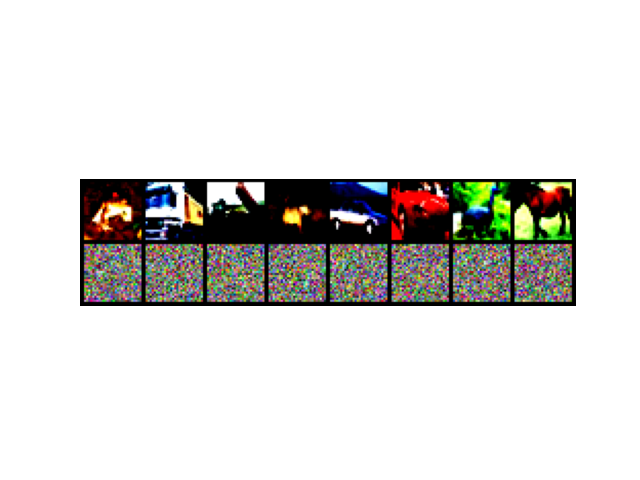
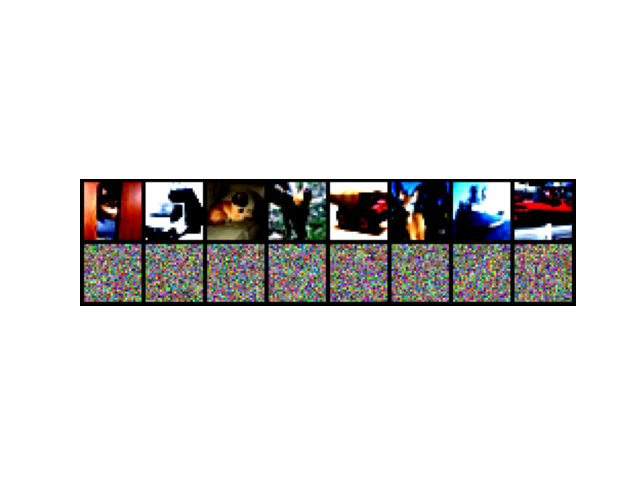
Updates

Changed region(s): [[0.125, 0.375, 0.9062, 0.6562]]

diff --git a/src/cifar10.py b/src/cifar10.py
@@ -234,72 +234,89 @@ def mean_std_channel(loader):
 
 def main():
     # Hyperparams
-    config = dict(
-        batch_size=128, num_workers=0, label_corruption_prob=0.,
-        data_corruption_type="none", test_size=0.2
-    )
+    config = dict(batch_size=128, num_workers=0,
+                  label_corruption_prob=0., seed=42,
+                  data_corruption_type="none", test_size=0.2)
     opts = SimpleNamespace(**config)
 
     # Get Dataset and DataLoader
     data = ModifiedCIFAR10(opts)
+    print(f"Dataset size: X={data.X.shape}, y={data.y.shape}")
+    print(f"Mean: {data.mean}, Std: {data.std}")
     cifar10 = MakeDataLoaders(opts, data)
     train_loader = cifar10.train_loader
 
     # Verify data
     mean, std = mean_std_channel(train_loader)
-    print("Base dataset")
-    print("Mean:", mean)
-    print("Std:", std)
+    print("Check current statistics")
+    print("Mean:", mean, "Std:", std)
 
     # Check labels and images
     X, y = next(iter(train_loader))
-    print("Data:", X.shape)
-    print("Targets:", y.shape)
+    print("Data shape:", f"X={X.shape}", f"y={y.shape}")
+
+    # Print first batch
+    import os
+    os.makedirs("plots", exist_ok=True)
+    import matplotlib.pyplot as plt
+    from torchvision.utils import make_grid
+    grid = make_grid(X, nrow=8, padding=2, normalize=True)
+    plt.imshow(grid.permute(1, 2, 0))
+    plt.axis("off")
+    plt.savefig("plots/figures/cifar10.png")
 
 
 def main_corruption():
     # Original dataset
+    imgs = 8
     config_orig = dict(
-        batch_size=128, num_workers=0, label_corruption_prob=0.,
+        batch_size=imgs, num_workers=0, label_corruption_prob=0.,
         data_corruption_type="none", test_size=0.2, seed=42
     )
-    original_data = ModifiedCIFAR10(SimpleNamespace(**config_orig))
+    opts_orig = SimpleNamespace(**config_orig)
+    original_data = ModifiedCIFAR10(opts_orig)
+    original = MakeDataLoaders(opts_orig, original_data)
+    original_loader = original.train_loader
+
     # Random labels
     config_labels = dict(
-        batch_size=128, num_workers=0, label_corruption_prob=0.5,
+        batch_size=imgs, num_workers=0, label_corruption_prob=0.5,
         data_corruption_type="none", test_size=0.2, seed=42
     )
-    # opts_labels = SimpleNamespace(**config_labels)
-    labels_data = ModifiedCIFAR10(SimpleNamespace(**config_labels))
+    opts_labels = SimpleNamespace(**config_labels)
+    labels_data = ModifiedCIFAR10(opts_labels)
     # labels_cifar10 = MakeDataLoaders(opts_labels, labels_data)
     # labels_loader = labels_cifar10.train_loader
+
     # Shuffled pixels
     config_shuff = dict(
-        batch_size=128, num_workers=0, label_corruption_prob=0.,
+        batch_size=imgs, num_workers=0, label_corruption_prob=0.,
         data_corruption_type="shuff_pix", test_size=0.2, seed=42
     )
-    # opts_shuff = SimpleNamespace(**config_shuff)
-    shuff_data = ModifiedCIFAR10(SimpleNamespace(**config_shuff))
-    # shuff_cifar10 = MakeDataLoaders(opts_shuff, ModifiedCIFAR10(opts_shuff))
-    # shuff_loader = shuff_cifar10.train_loader
+    opts_shuff = SimpleNamespace(**config_shuff)
+    shuff_data = ModifiedCIFAR10(opts_shuff)
+    shuff_cifar10 = MakeDataLoaders(opts_shuff, ModifiedCIFAR10(opts_shuff))
+    shuff_loader = shuff_cifar10.train_loader
+
     # Random pixels
     config_rand = dict(
-        batch_size=128, num_workers=0, label_corruption_prob=0.,
+        batch_size=imgs, num_workers=0, label_corruption_prob=0.,
         data_corruption_type="rand_pix", test_size=0.2, seed=42
     )
-    # opts_rand = SimpleNamespace(**config_rand)
-    rand_data = ModifiedCIFAR10(SimpleNamespace(**config_rand))
-    # rand_cifar10 = MakeDataLoaders(opts_rand, ModifiedCIFAR10(opts_rand))
-    # rand_loader = rand_cifar10.train_loader
+    opts_rand = SimpleNamespace(**config_rand)
+    rand_data = ModifiedCIFAR10(opts_rand)
+    rand_cifar10 = MakeDataLoaders(opts_rand, ModifiedCIFAR10(opts_rand))
+    rand_loader = rand_cifar10.train_loader
+
     # Gaussian pixels
     config_gauss = dict(
-        batch_size=128, num_workers=0, label_corruption_prob=0.,
+        batch_size=imgs, num_workers=0, label_corruption_prob=0.,
         data_corruption_type="gauss_pix", test_size=0.2, seed=42
     )
-    # opts_gauss = SimpleNamespace(**config_gauss)
-    gauss_data = ModifiedCIFAR10(SimpleNamespace(**config_gauss))
-    # gauss_cifar10 = MakeDataLoaders(opts_gauss, ModifiedCIFAR10(opts_gauss))
-    # gauss_loader = gauss_cifar10.train_loader
+    opts_gauss = SimpleNamespace(**config_gauss)
+    gauss_data = ModifiedCIFAR10(opts_gauss)
+    gauss_cifar10 = MakeDataLoaders(opts_gauss, ModifiedCIFAR10(opts_gauss))
+    gauss_loader = gauss_cifar10.train_loader
 
     # ***** Labels corruption *****
     # print("Check labels and images")
@@ -323,21 +340,20 @@ def main_corruption():
     os.makedirs(dir, exist_ok=True)
     # ***** Shuffled pixels corruption *****
     print("Shuffled pixels")
-    imgs = 8
-    X_orig, _ = original_data[:imgs]
-    X_corrupted, _ = shuff_data[:imgs]
+    X_orig, _ = next(iter(original_loader))
+    X_corrupted, _ = next(iter(shuff_loader))
     grid = make_grid(torch.cat((X_orig, X_corrupted), dim=0), nrow=8)
     imshow(grid, os.path.join(dir, "shuffled_pixels.png"))
 
     # ***** Random pixels corruption *****
     print("Random pixels")
-    X_corrupted, _ = rand_data[:imgs]
+    X_corrupted, _ = next(iter(rand_loader))
     grid = make_grid(torch.cat((X_orig, X_corrupted), dim=0), nrow=8)
     imshow(grid, os.path.join(dir, "random_pixels.png"))
 
     # ***** Gaussian pixels corruption *****
     print("Gaussian pixels")
-    X_corrupted, _ = gauss_data[:imgs]
+    X_corrupted, _ = next(iter(gauss_loader))
     grid = make_grid(torch.cat((X_orig, X_corrupted), dim=0), nrow=8)
     imshow(grid, os.path.join(dir, "gaussian_pixels.png"))
 

diff --git a/src/main.py b/src/main.py
@@ -95,6 +95,9 @@ def update_opts(opts, args):
     else:
         opts.checkpoint_every = opts.num_epochs
         LOG.info(f"Checkpointing at the end of training")
+    ckp_dir = os.path.join("checkpoints", opts.model_name)  # checkpoints directory
+    os.makedirs(ckp_dir, exist_ok=True)  # output dir not tracked by git
+    opts.checkpoint_dir = ckp_dir  # for saving and loading ckps
 
     # Resume from checkpoint
     # TODO: forse dovrei fare il dumping dello yaml quando aggiorno le epoche
@@ -125,11 +128,7 @@ def main(opts, experiment):
     # Get model
     model = get_model(opts)
 
-    # Training & checkpointing
-    ckp_dir = os.path.join("checkpoints", opts.model_name)
-    os.makedirs(ckp_dir, exist_ok=True)  # output dir not tracked by git
-    opts.checkpoint_dir = ckp_dir  # for saving and loading ckps
-
+    # Training
     with experiment.train():
         LOG.info(f"Running {opts.experiment_name}")
         train_loop(opts, model, train_loader, test_loader,
